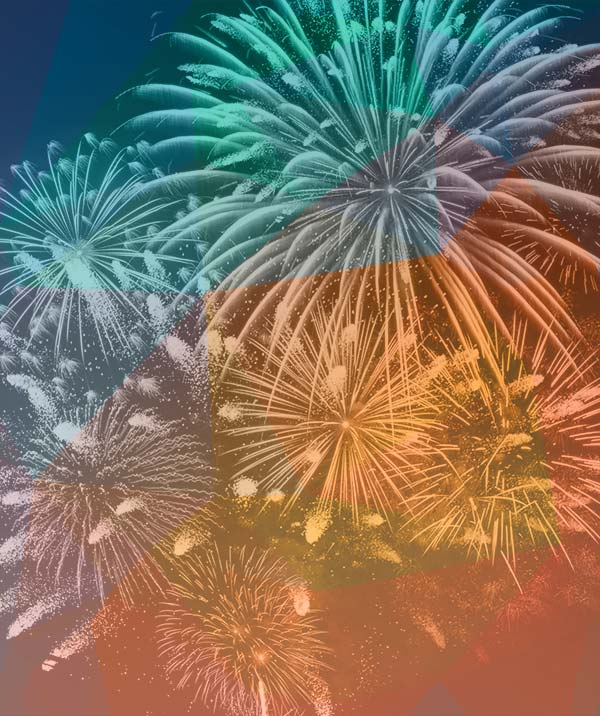
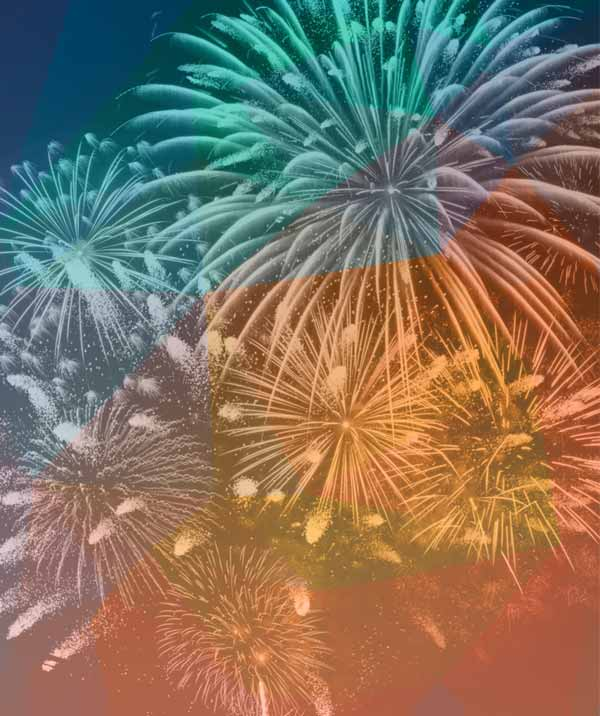
Saving 30 more kb (improving images)

diff --git a/src/public/w/css/home.css b/src/public/w/css/home.css
@@ -1,1 +1,1 @@
[2 lines of base64/hex data omitted]

diff --git a/src/compass_web/sass/home.scss b/src/compass_web/sass/home.scss
@@ -154,7 +154,7 @@
     .box-result .woman{background-image:url(../img/home/bg-result@2x.jpg); background-size:168px 189px;}
     .outbound{background-image:url(../img/home/bg-win-millions@2x.png); background-size:445px 445px;}
     .box-play .awards li, .box-play .ball{background-image:url(../img/sprite@2x.png); background-size:270px 220px;}
-    .box-right{background-image:url(../img/home/bg-coloured@2x.jpg);}
+   /*  .box-right{background-image:url(../img/home/bg-coloured@2x.jpg);}*/
   .bg-quality{background-image:url(../img/home/bg-quality@2x.jpg); background-size:494px 493px;}
   .bg-hope{background-image:url(../img/home/bg-hope@2x.jpg); background-size:589px 604px;}
   .bg-win{background-image:url(../img/home/bg-win@2x.jpg); background-size:490px 584px;}
